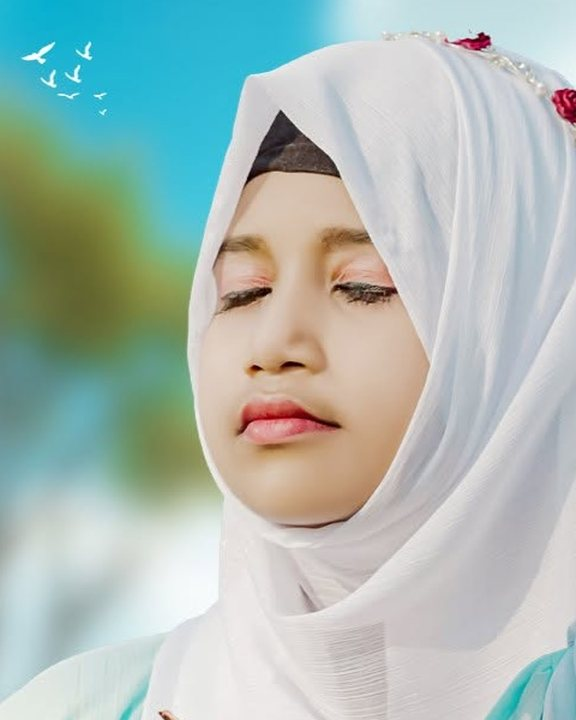
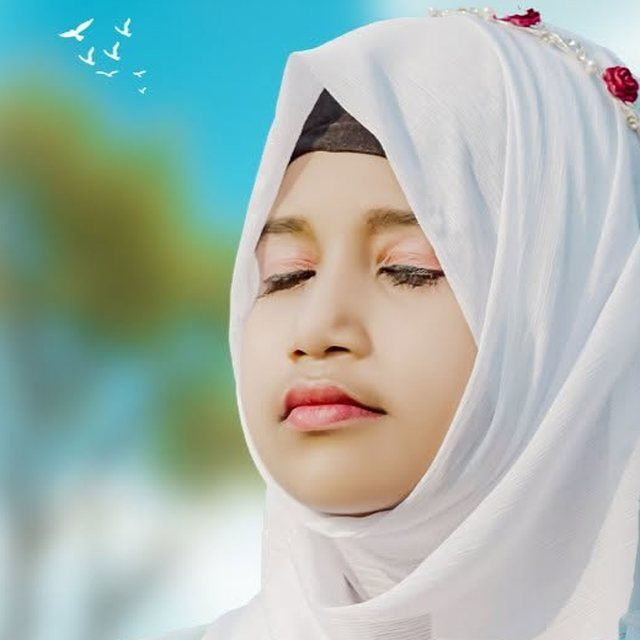
শিল্পীর ছবি চৌকো (১:১)
Artist portraits switch from the arch shape to 1:1 squares with
softly rounded corners; photos re-cropped to 640×640.

Claude-Session: https://claude.ai/code/session_01494HWq6pPUZrcuLkEJqEqt

diff --git a/assets/js/artists-data.js b/assets/js/artists-data.js
@@ -12,7 +12,7 @@
     name_en  — ইংরেজিতে নাম (ঐচ্ছিক) — অন্য ভাষায় সাইট দেখলে এই নাম দেখাবে
     roles    — ভূমিকা: "singer" (কণ্ঠশিল্পী), "lyricist" (গীতিকার), "composer" (সুরকার)
                একাধিক হলে: ["singer", "composer"]
-    photo    — ছবির ঠিকানা; ছবিটি assets/img/artists/ ফোল্ডারে রাখুন
+    photo    — ছবির ঠিকানা; ছবিটি assets/img/artists/ ফোল্ডারে রাখুন (চৌকো ছবি, যেমন ৬৪০×৬৪০)
                (না থাকলে "" রাখুন — তখন একটি সাধারণ ছবি দেখাবে)
     bio      — বাংলায় ২–৩ লাইনের পরিচিতি (না থাকলে "")
     bio_en, bio_hi, bio_ur, bio_ar — অন্য ভাষায় পরিচিতি (ঐচ্ছিক; না থাকলে বাংলাটাই দেখাবে)

diff --git a/assets/css/style.css b/assets/css/style.css
@@ -1112,8 +1112,8 @@ body.detail-open .lyrics-section { padding-top: clamp(24px, 4vw, 48px); }
   position: relative;
   display: grid;
   place-items: center;
-  aspect-ratio: 4 / 5;
-  border-radius: 999px 999px 20px 20px;
+  aspect-ratio: 1 / 1;
+  border-radius: 16px;
   overflow: hidden;
   border: 1px solid var(--line);
   background-color: var(--surface);
